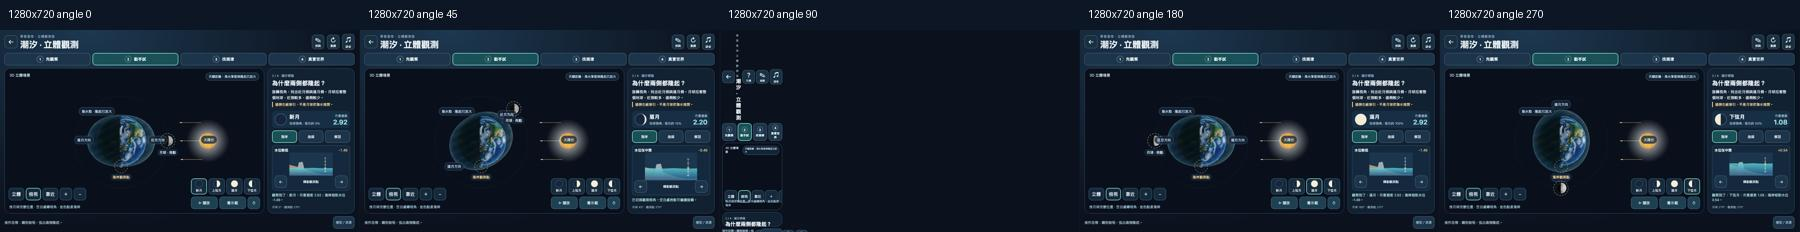
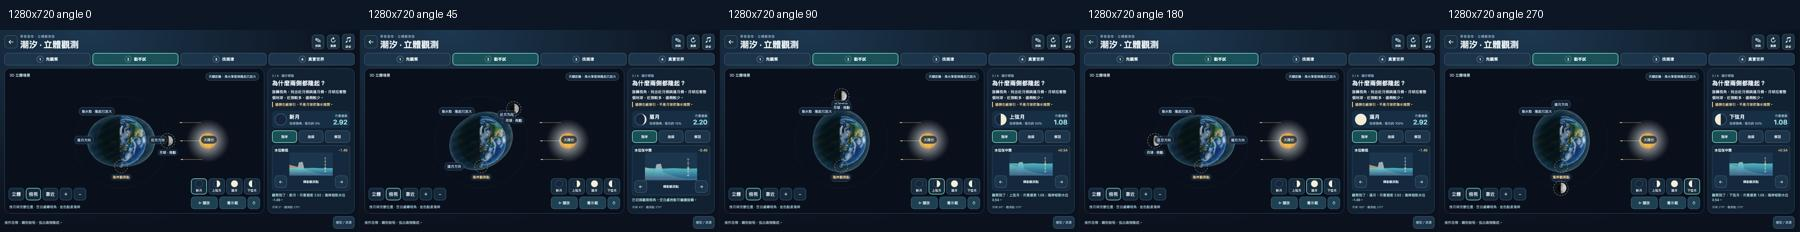
docs: preserve verified viewport image in visual QA

Changed region(s): [[0.3733, 0.1207, 0.6222, 0.9957], [0.3733, 0.7845, 0.4667, 1.0]]

diff --git a/qa/tides-3d/refinement/REVIEW.md b/qa/tides-3d/refinement/REVIEW.md
@@ -10,7 +10,7 @@
 
 ## 實看證據
 
-六尺寸各0、45、90、180、270度共30張 `*-water-*.png`；六尺寸 `*-mission.png`，手機另有場景和任務切換畫面。考核頁所有尺寸側欄 overflow=0，頁寬高均符合 viewport。原尺寸圖與 contact 縮圖均人工檢查。批次擷取發現兩張靜止畫面未帶出 canvas；為隨需渲染保留 drawing buffer，避免已繪完的 WebGL 內容被清空後截成黑圖。重拍並檢查完整場景及瀏覽器日誌，不以黑圖作驗收。
+六尺寸各0、45、90、180、270度共30張 `*-water-*.png`；六尺寸 `*-mission.png`，手機另有場景和任務切換畫面。考核頁所有尺寸側欄 overflow=0，頁寬高均符合 viewport。原尺寸圖與 contact 縮圖均人工檢查。批次擷取發現兩張靜止畫面未帶出 canvas；為隨需渲染保留 drawing buffer，避免已繪完的 WebGL 內容被清空後截成黑圖。重拍並檢查完整場景及瀏覽器日誌，不以黑圖作驗收。另發現整頁擷取會產生與可視畫面不同的尺寸，桌面上弦改直接保存已核對的 viewport 截圖，並在本地再次開圖確認。
 
 本輪重新打開使用者 X 連結，按播放後實看約8.2秒處的連續海面、光感與同步面板。參考仍比本版有較亮、精緻的地表／海面質感；本版改用較柔和的吸收光與細波紋，沒有宣稱視覺已完全相同。X素材未加入應用。比較圖 `before-after.jpg` 只包含我們自己的修正前後實際截圖。
 
